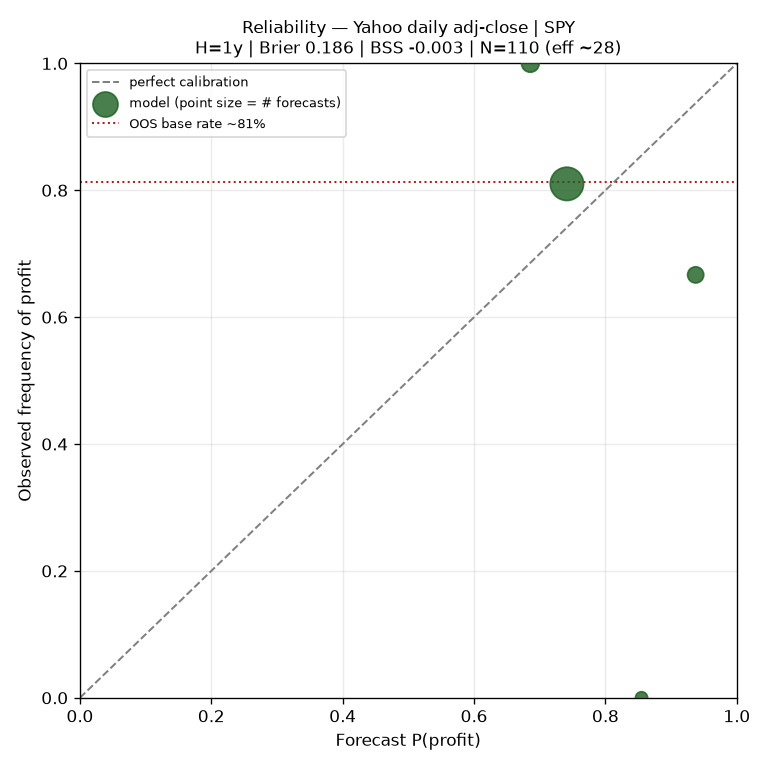
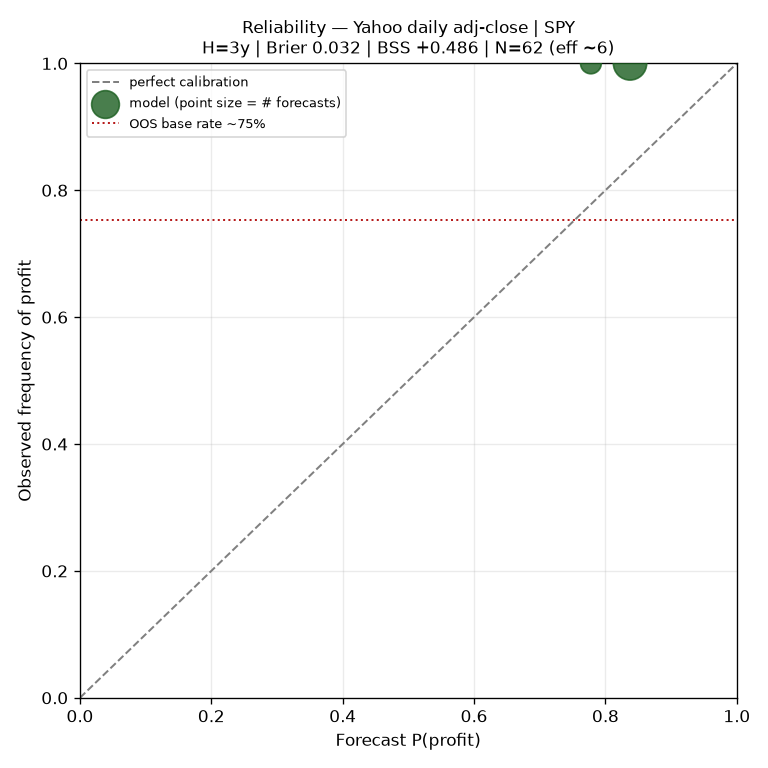
Add step-by-step installation guide and update README for DCA feature
- Added full Installation section: prerequisites, clone, venv setup
  (Windows + macOS/Linux), pip install, verify, and run instructions
- Documented --dca flag with CLI examples for both US and India markets
- Replaced flat knobs list with a proper CLI Options table
- Updated Dashboard section with DCA/SIP feature description
- Updated Project Structure table to reflect DCA and dual-cone UI
- Refreshed calibration plot from latest SPY run

diff --git a/README.md b/README.md
@@ -192,14 +192,71 @@ Tiered model-comparison strategy, scored with CRPS and block-bootstrapped confid
 
 ---
 
-## Usage
+## Installation
 
-### Quick Start
+### Prerequisites
+
+- **Python 3.10 or higher** (tested on 3.13)
+- **pip** (comes with Python)
+- **Git** (to clone the repo)
+
+### Step 1 — Clone the repository
 
 ```bash
-# Install dependencies
-pip install -r requirements.txt
+git clone https://github.com/TharunPonnaganti/block-bootstrap-risk-simulator.git
+cd block-bootstrap-risk-simulator
+```
 
+### Step 2 — Create a virtual environment (recommended)
+
+```bash
+# Windows
+python -m venv venv
+venv\Scripts\activate
+
+# macOS / Linux
+python3 -m venv venv
+source venv/bin/activate
+```
+
+### Step 3 — Install dependencies
+
+```bash
+pip install -r requirements.txt
+```
+
+This installs:
+- **numpy** — core engine (required)
+- **matplotlib** — calibration plots (required)
+- **streamlit** — local dashboard UI (optional but recommended)
+
+No API keys needed. The data layer uses Python's standard library (`urllib`, `json`, `csv`) to fetch public price history from Yahoo Finance.
+
+### Step 4 — Verify the install
+
+```bash
+python qa_check.py    # Should print 22/22 checks passed
+```
+
+### Step 5 — Run it
+
+```bash
+# CLI — quick analysis
+python stock_probability_engine.py SPY
+
+# Dashboard — full interactive UI
+streamlit run app.py
+```
+
+The dashboard opens at **http://localhost:8501** in your browser.
+
+---
+
+## Usage
+
+### CLI Examples
+
+```bash
 # --- US market (default) ---
 python stock_probability_engine.py                              # VTI, US total market
 python stock_probability_engine.py SPY                          # S&P 500
@@ -209,50 +266,56 @@ python stock_probability_engine.py AAPL                         # single stock (
 # --- Indian market (NSE / BSE) ---
 python stock_probability_engine.py NIFTYBEES.NS                 # Nifty 50 ETF (NSE)
 python stock_probability_engine.py RELIANCE.NS                  # Reliance Industries (NSE)
-python stock_probability_engine.py HDFCBANK.NS                  # HDFC Bank (NSE)
 python stock_probability_engine.py --portfolio "NIFTYBEES.NS:0.6,HDFCBANK.NS:0.2,TCS.NS:0.2"
+
+# --- Monthly recurring (SIP / DCA) ---
+python stock_probability_engine.py SPY --dca 500                # $500/month alongside lump sum
+python stock_probability_engine.py NIFTYBEES.NS --dca 5000      # Rs.5,000/month SIP
 
 # Machine-readable JSON output
 python stock_probability_engine.py SPY --json
 ```
 
-Currency ($/Rs.) and risk-free rate (4% USD / 6.5% INR) are auto-detected from the ticker suffix (`.NS` = NSE, `.BO` = BSE).
+Currency (`$` / `Rs.`) and risk-free rate (4% USD / 6.5% INR) are auto-detected from the ticker suffix (`.NS` = NSE, `.BO` = BSE).
 
-### Knobs
+### CLI Options
 
-```bash
---years 15        # Cap history to last N years
---blend           # Mix return blocks across eras (5y/15y/full)
---threshold 0.7   # P(profit) threshold for ABOVE/BELOW flag
---amount 10000    # Hypothetical investment amount
---paths 10000     # Number of bootstrap paths
---haircut 0.25    # Remove 25% of historical drift (stress test)
-```
+| Flag | Default | Description |
+|---|---|---|
+| `--portfolio` | — | Multi-asset allocation, e.g. `"VTI:0.8,QQQ:0.2"` (correlation-preserving joint bootstrap) |
+| `--csv` | — | Use a local CSV export instead of Yahoo (Fidelity, Robinhood, Schwab, etc.) |
+| `--dca` | — | Monthly recurring contribution (SIP/DCA), shown side-by-side with lump sum |
+| `--years` | full | Cap history to the last N years |
+| `--blend` | off | Mix return blocks across eras (5y/15y/full) to avoid regime lock-in |
+| `--threshold` | 0.70 | P(profit) threshold for the ABOVE/BELOW indicator |
+| `--amount` | 10000 | Hypothetical lump-sum investment amount |
+| `--paths` | 10000 | Number of bootstrap paths (more = smoother, slower) |
+| `--haircut` | 0.0 | Fraction of historical drift to remove (0–1, stress test) |
+| `--json` | off | Emit machine-readable JSON |
 
 ### Calibration
 
 ```bash
-# Walk-forward backtest (writes reliability_curve.png)
-python calibration.py SPY
-
-# Different horizon
-python calibration.py SPY --horizon 3
-
-# Portfolio calibration
-python calibration.py --portfolio "VTI:0.8,QQQ:0.2"
+python calibration.py SPY                                # 1-year walk-forward backtest
+python calibration.py SPY --horizon 3                    # 3-year horizon
+python calibration.py --portfolio "VTI:0.8,QQQ:0.2"     # portfolio calibration
 ```
 
-### QA Tests
+Writes `reliability_curve.png` and prints Brier Score, Brier Skill Score, PIT coverage.
+
+### Dashboard
 
 ```bash
-python qa_check.py    # 22 invariant checks -- all should pass
+streamlit run app.py
 ```
 
-### Local Dashboard
-
-```bash
-python -m streamlit run app.py    # Opens at http://localhost:8501
-```
+Features:
+- **Market toggle** (US / India) with pre-populated ticker dropdowns
+- **Portfolio mode** with free-text allocation input
+- **Monthly recurring (SIP/DCA)** — side-by-side comparison with lump sum
+- **Two probability cones** — lump sum (green) and recurring (blue) with invested-amount lines
+- **Live threshold slider** — simulation is cached, only the flag updates instantly
+- **Currency-aware** — auto-detects `$` or `₹` from ticker
 
 ---
 
@@ -260,10 +323,10 @@ python -m streamlit run app.py    # Opens at http://localhost:8501
 
 | File | Role |
 |---|---|
-| `stock_probability_engine.py` | Core engine: data layer (Yahoo/CSV), circular block bootstrap (single + era-blended + joint portfolio), risk metrics (VaR/CVaR/drawdown), CLI and JSON output |
+| `stock_probability_engine.py` | Core engine: data layer (Yahoo/CSV), circular block bootstrap (single + era-blended + joint portfolio), lump-sum and DCA/SIP simulation, risk metrics (VaR/CVaR/drawdown), CLI and JSON output |
 | `calibration.py` | Walk-forward backtest: expanding-window calibration, reliability curve, Brier Score, Brier Skill Score, PIT coverage |
 | `qa_check.py` | 22 statistical-invariant tests: engine determinism, scale-invariance, tail-risk ordering, portfolio correlation preservation, calibration math |
-| `app.py` | Local Streamlit dashboard: probability cone, risk cards, ticker dropdown, live threshold slider |
+| `app.py` | Local Streamlit dashboard: side-by-side lump sum vs recurring, dual probability cones, risk cards, market toggle (US/India), live threshold slider |
 | `requirements.txt` | numpy, matplotlib, streamlit (optional) |
 | `reliability_curve.png` | Sample calibration output (SPY, 1-year horizon) |
 